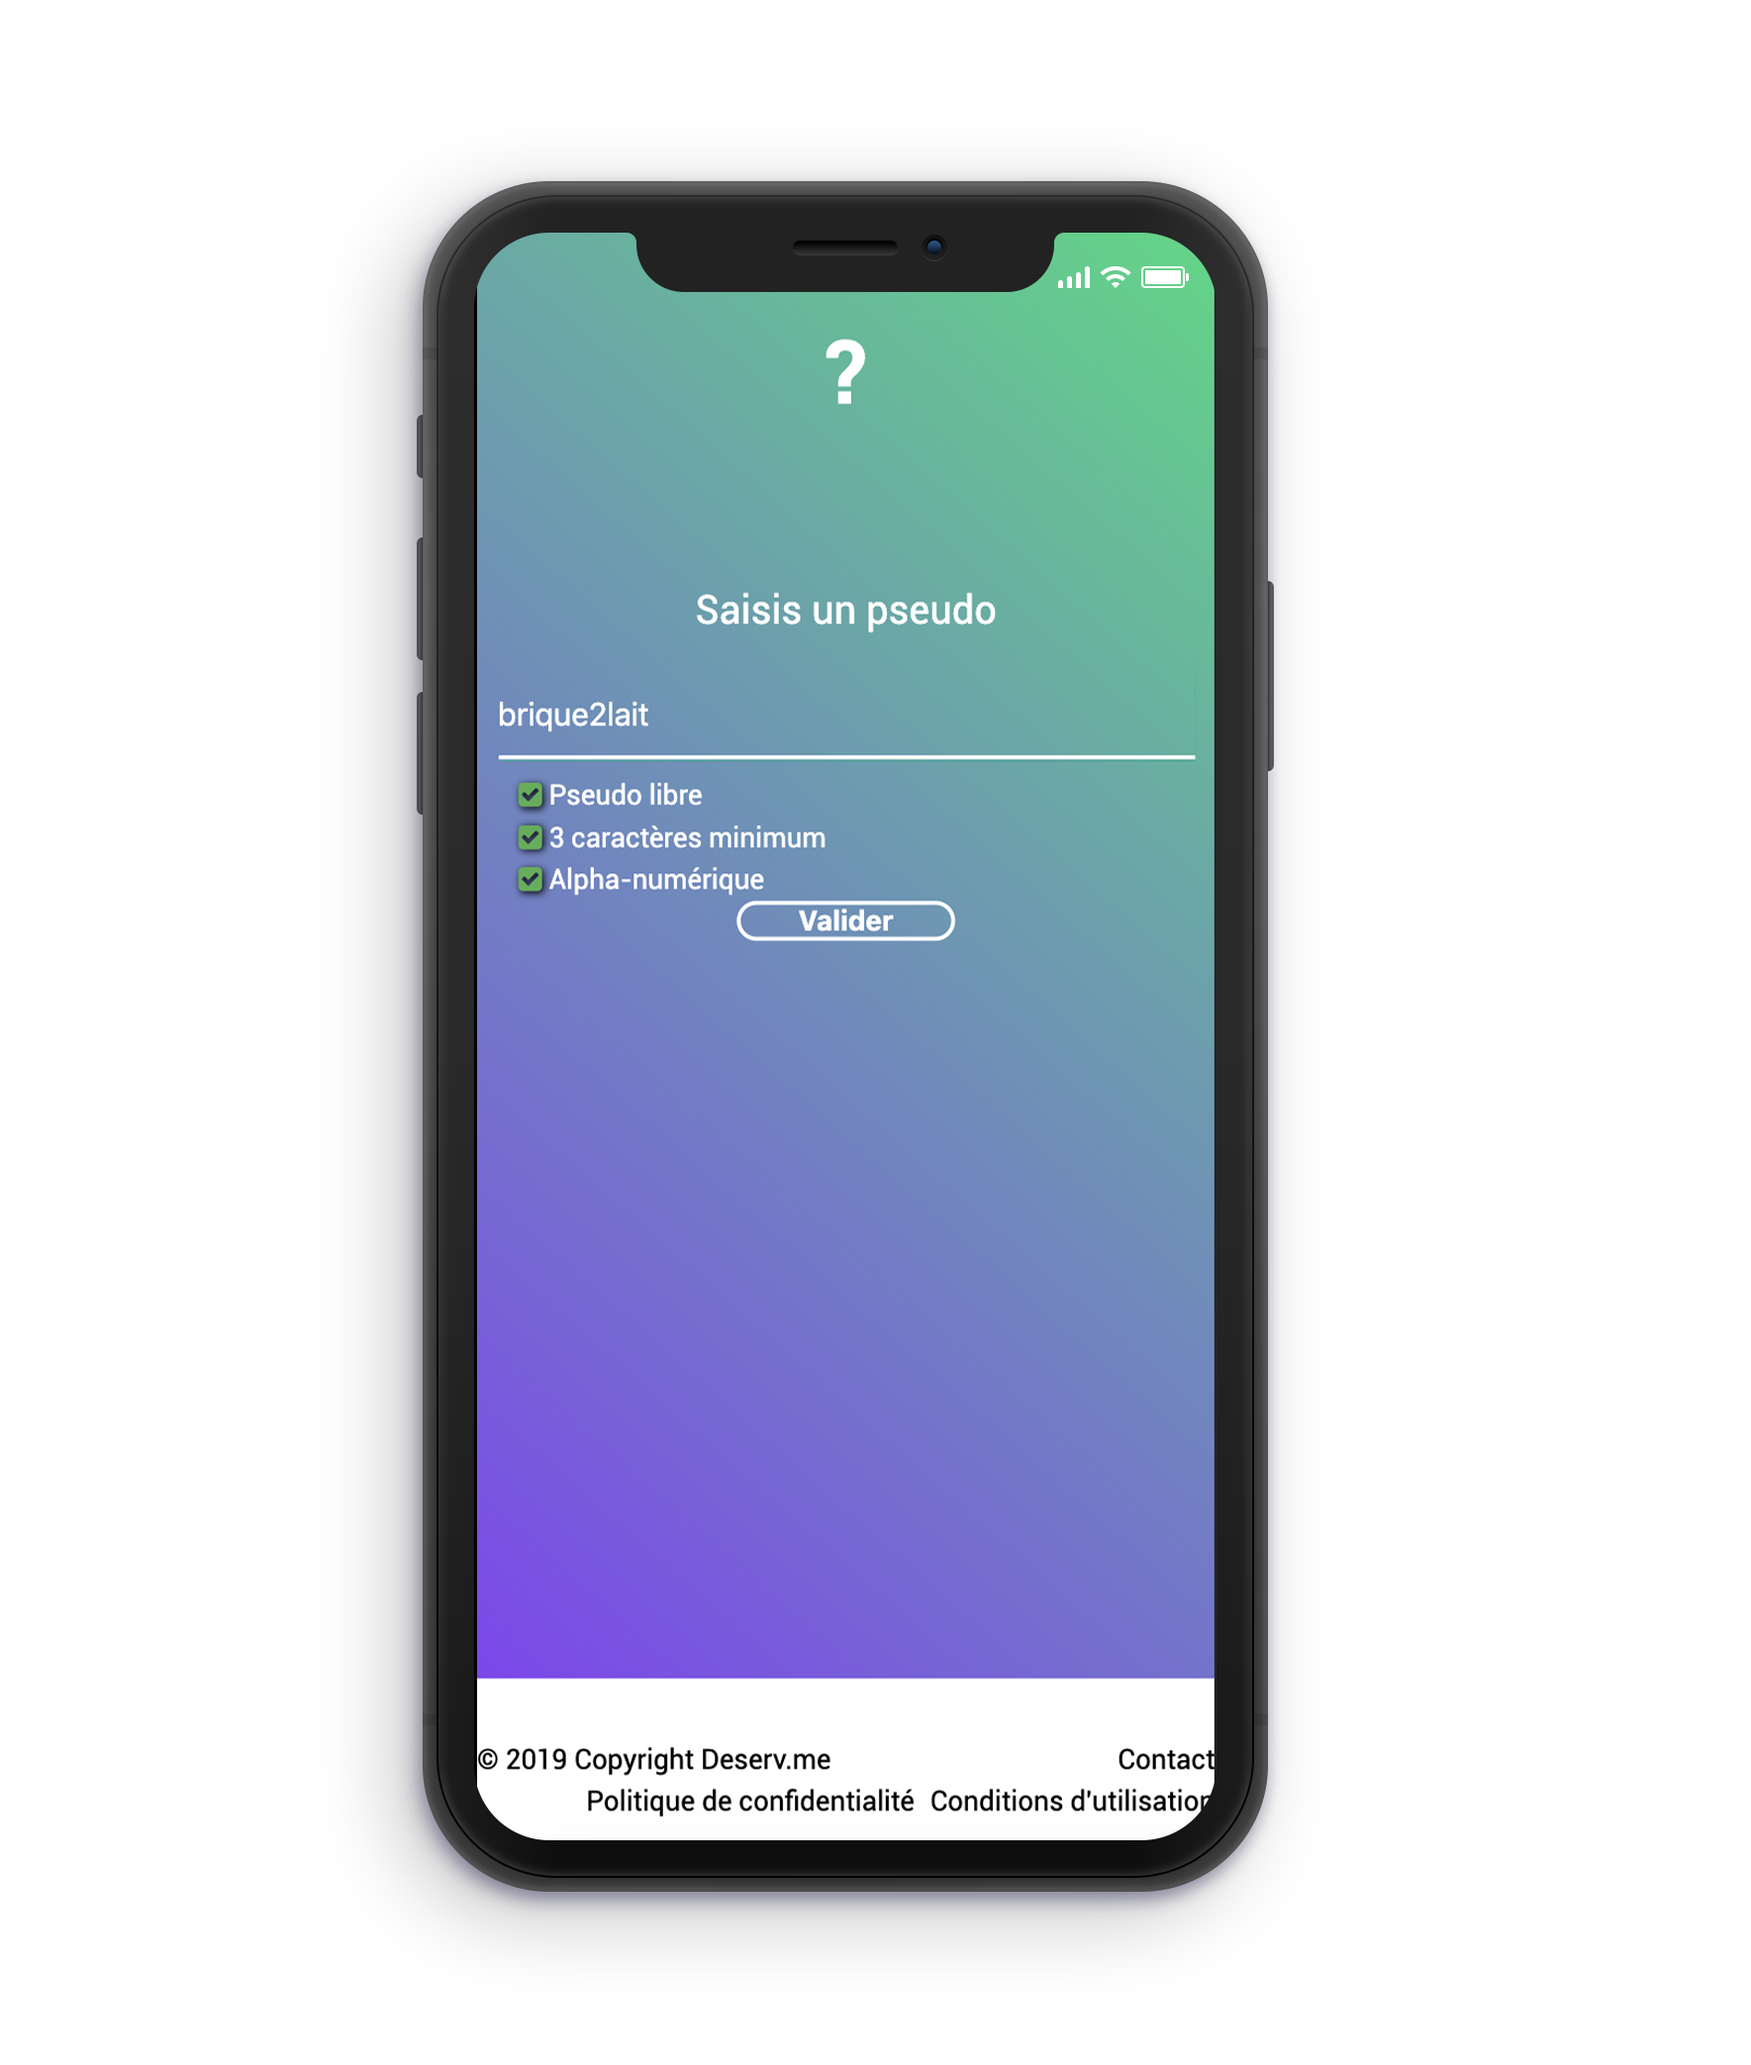
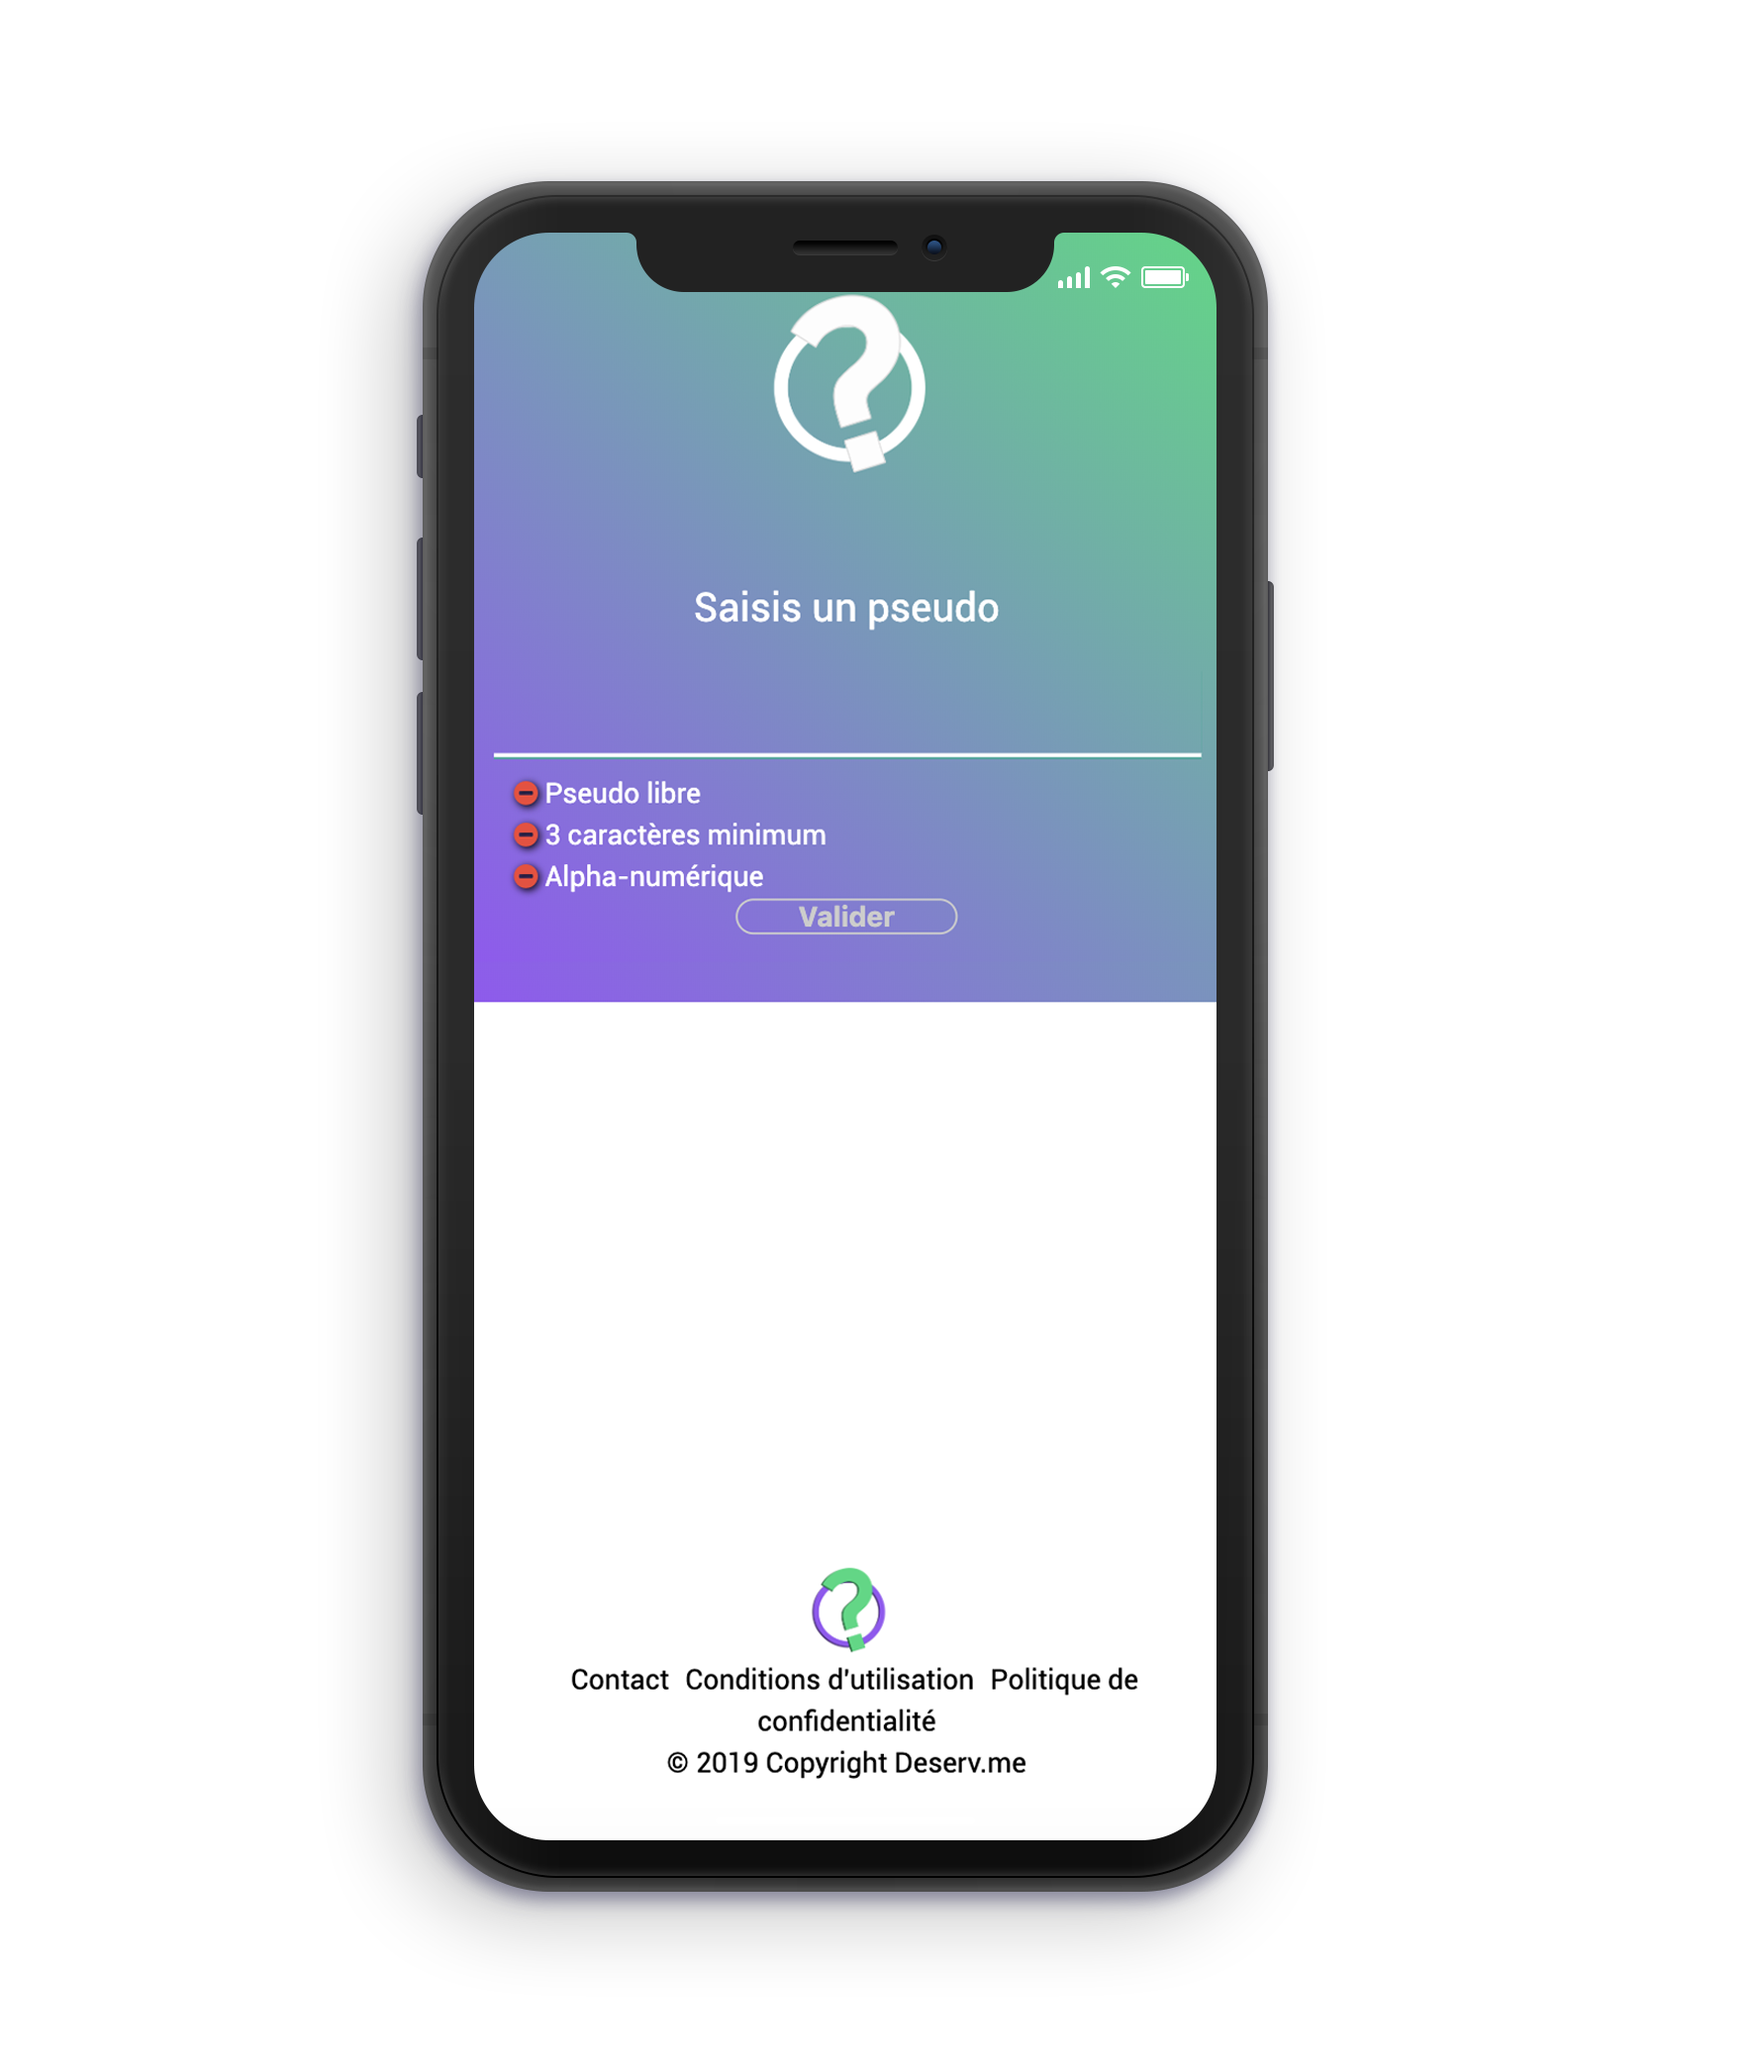
update design

Changed region(s): [[0.2487, 0.2493, 0.7151, 0.8725], [0.4353, 0.1246, 0.5285, 0.2493], [0.4042, 0.2804, 0.5596, 0.3116]]

diff --git a/src/app/answer-quizz/answer-quizz.component.ts b/src/app/answer-quizz/answer-quizz.component.ts
@@ -35,6 +35,7 @@ export class AnswerQuizzComponent implements OnInit {
     allAnswer: Answer[];
     exist = true;
     report = false;
+    isConnected = false;
 
     constructor(private api: ApiService,
                 private route: ActivatedRoute,
@@ -61,38 +62,52 @@ export class AnswerQuizzComponent implements OnInit {
         this.nbrQ = 0;
         this.id = this.route.snapshot.paramMap.get('id');
         this.currentUser = JSON.parse(localStorage.getItem('user'));
-
-        this.api.getAnswerByUserId(this.id).subscribe((a: Answer) => {
-            this.calculResult(a, true);
-            this.alreadyAnswer = true;
-        }, error => {
-            this.alreadyAnswer = false;
+        if (!this.currentUser) {
+            this.isConnected = false;
             this.api.getQuizz(this.id).subscribe((q: Quizz) => {
                 this.metafrenzyService.setLinkTag({
                     property: 'og:title',
                     value: 'Deserv.me - ' + q.title
                 });
-                if (q.user_id == this.currentUser._id) {
-                    this.exist = true;
-                    this.quizz = q;
-                    this.myQuizz = true;
-                    this.api.getAnswerOfQuizz(this.id).subscribe((answers: Answer[]) => {
-                        this.allAnswer = answers;
-                        console.log(answers);
-                    });
-                } else {
-                    this.quizz = q;
-                    this.answer = new Answer;
-                    this.answer.user_id = this.currentUser._id;
-                    this.answer.username = this.currentUser.username;
-                    this.answer.avatar = this.currentUser.avatar;
-                    this.answer.avatar_type = this.currentUser.avatar_type;
-                    this.answer.questions = [new Question()];
-                }
+                this.exist = true;
+                this.quizz = q;
             }, (err) => {
                 this.exist = false;
             });
-        });
+        } else {
+            this.isConnected = true;
+            this.api.getAnswerByUserId(this.id).subscribe((a: Answer) => {
+                this.calculResult(a, true);
+                this.alreadyAnswer = true;
+            }, error => {
+                this.alreadyAnswer = false;
+                this.api.getQuizz(this.id).subscribe((q: Quizz) => {
+                    this.metafrenzyService.setLinkTag({
+                        property: 'og:title',
+                        value: 'Deserv.me - ' + q.title
+                    });
+                    if (q.user_id == this.currentUser._id) {
+                        this.exist = true;
+                        this.quizz = q;
+                        this.myQuizz = true;
+                        this.api.getAnswerOfQuizz(this.id).subscribe((answers: Answer[]) => {
+                            this.allAnswer = answers;
+                            console.log(answers);
+                        });
+                    } else {
+                        this.quizz = q;
+                        this.answer = new Answer;
+                        this.answer.user_id = this.currentUser._id;
+                        this.answer.username = this.currentUser.username;
+                        this.answer.avatar = this.currentUser.avatar;
+                        this.answer.avatar_type = this.currentUser.avatar_type;
+                        this.answer.questions = [new Question()];
+                    }
+                }, (err) => {
+                    this.exist = false;
+                });
+            });
+        }
     }
     previewQ() {
         this.nbrQ--;

diff --git a/src/app/answer-quizz/answer-quizz.component.html b/src/app/answer-quizz/answer-quizz.component.html
@@ -1,5 +1,5 @@
 
-<div class="container " *ngIf="quizz && !alreadyAnswer && !myQuizz && exist">
+<div class="container " *ngIf="quizz && !alreadyAnswer && !myQuizz && exist && isConnected">
 
   <div class="row">
     <div class="col s12 l4 user z-depth-3">
@@ -121,4 +121,62 @@
   <i class="material-icons">
     error_outline
   </i>
+</div>
+
+<div class="container " *ngIf="quizz && exist && !isConnected">
+
+  <div class="row">
+    <div class="col s12 l4 user z-depth-3">
+      <div class="col s2">
+        <img class="circle" src="{{getAvatar(quizz.user_id)}}" alt="img">
+      </div>
+
+      <div class="col s10">
+        <p>- Ce Quizz a été crée par {{quizz.username}} <br>
+          - Ce quizz contient {{quizz.questions.length}} questions <br>
+          - <span *ngIf="quizz.answer_count < 1">Tu es le premier a participer à ce quizz</span>
+          <span *ngIf="quizz.answer_count > 0">{{quizz.answer_count}} personnes ont participés à ce quizz</span>
+        </p>
+
+      </div>
+    </div>
+
+    <div class="col s12 l8 offset-l1 answer-quizz z-depth-3">
+      <div class="title-answer">{{quizz.title}}</div>
+      <ng-container  *ngFor="let q of quizz.questions, let i = index;">
+        <div class="row question z-depth-3" *ngIf="nbrQ == i" >
+          <div class="title-question col s12 ">{{q.name}} </div>
+
+          <div class="row answers" >
+            <h2>Choisis une réponse :</h2>
+            <!-- <div class="col s12 answer {{choice.rep ? 'true-answer': 'false-answer'}}" *ngFor="let choice of q.choices; let j = index">
+               <div class="col s8 answer-name">
+                 {{choice.name}}
+               </div>
+               <div class="col s2 large-answer">
+                 <p class="answer-right">
+                   <label>
+                     <input (click)="uncheckAll(i, j)" type="checkbox" class="filled-in" />
+                     <span></span>
+                   </label>
+                 </p>
+               </div>
+             </div>-->
+            <p *ngFor="let choice of q.choices; let j = index">
+              <label>
+                <input name="group{{i}}" type="radio" (click)="setAnswer(choice, q)" disabled />
+                <span>{{choice.name}}</span>
+              </label>
+            </p>
+          </div>
+        </div>
+      </ng-container>
+      <div class="row answer-end">
+        <div class="col s12">
+          <button class="white-button left btn" [routerLink]="['/']">Pour répondre tu dois te connecter</button>
+        </div>
+      </div>
+
+    </div>
+  </div>
 </div>

diff --git a/src/app/home/home.component.html b/src/app/home/home.component.html
@@ -69,11 +69,11 @@
           Connexion via Twitter
         </button>
       </a>
-      <a href="{{environment.baseUrl}}auth/instagram">
-        <button class="loginBtn loginBtn--instagram">
+    <!--  <a href="{{environment.baseUrl}}auth/instagram">
+        <button class="loginBtn loginBtn&#45;&#45;instagram">
           Connexion via Instagram
         </button>
-      </a>
+      </a>-->
     </p>
     <p class="center-align hide-on-large-only">
       <a href="{{environment.baseUrl}}auth/facebook">
@@ -87,11 +87,11 @@
         </button>
       </a>
 
-      <a href="{{environment.baseUrl}}auth/instagram">
-        <button class="loginBtn loginBtn--instagram">
+    <!--  <a href="{{environment.baseUrl}}auth/instagram">
+        <button class="loginBtn loginBtn&#45;&#45;instagram">
           via Instagram
         </button>
-      </a>
+      </a>-->
     </p>
     <p class="center-align">
       En t'inscrivant tu acceptes les <a [routerLink]="'/terms'">conditions d'utilisation</a> et la <a [routerLink]="'/privacy'">politique de confidentialité</a>

diff --git a/src/app/footer/footer.component.html b/src/app/footer/footer.component.html
@@ -8,12 +8,21 @@
         <img routerLink="/"  src="../../assets/images/color-logo.png" alt="logo deserv.me deservme quizz">
 
       </div>
-      <div class="col l6 s12 right">
+      <div class="col l6 s12 right hide-on-med-and-down">
         <a class="right" routerLink="/contact">Contact</a>
         <a class="right" routerLink="/terms">Conditions d'utilisation</a>
         <a class="right" routerLink="/privacy">Politique de confidentialité</a>
       </div>
-      <div class="col l6 s12 left">
+      <div class="col l6 s12 hide-on-large-only center" >
+        <a routerLink="/contact" class="left-align">Contact</a>
+        <a routerLink="/terms" class="left-align">Conditions d'utilisation</a>
+        <a routerLink="/privacy" class="left-align">Politique de confidentialité</a>
+      </div>
+      <div class="col l6 s12 left hide-on-med-and-down">
+        © 2019 Copyright Deserv.me
+      </div>
+
+      <div class="col l6 s12 center-align hide-on-large-only">
         © 2019 Copyright Deserv.me
       </div>
 

diff --git a/src/app/profil/profil.component.ts b/src/app/profil/profil.component.ts
@@ -25,7 +25,6 @@ export class ProfilComponent implements OnInit, OnChanges {
     this.api.getCurrentUser().subscribe((v: User) => {
       if (!localStorage.getItem('user')) {
         localStorage.setItem('user', JSON.stringify(v));
-        console.log('ajouter');
       }
       if (!v.username) {
         this.router.navigate(['/register']);
@@ -34,7 +33,8 @@ export class ProfilComponent implements OnInit, OnChanges {
       }
     }, error => {
       if (error) {
-        this.router.navigate(['/']);
+          if (this.currentRoute != 'quizz/:id')
+            this.router.navigate(['/']);
       }
     });
   }
@@ -53,7 +53,8 @@ export class ProfilComponent implements OnInit, OnChanges {
             }
         }, error => {
             if (error) {
-                this.router.navigate(['/']);
+                if (this.currentRoute != 'quizz/:id')
+                    this.router.navigate(['/']);
             }
         });
     }

diff --git a/src/app/create-quizz/create-quizz.component.html b/src/app/create-quizz/create-quizz.component.html
@@ -5,10 +5,10 @@
     </div>
   </div>
   <div class="questions row z-depth-3" *ngFor="let question of quizz.questions; let i = index;">
-    <button class="white-button right delete-question" (click)="deleteQuestion(i)">X</button>
+    <button class="purple-border right delete-question" (click)="deleteQuestion(i)">X</button>
     <div class="row question">
       <div class="col s12 ">
-        <input type="text" id="question" name="question" placeholder="Question n°{{i+1}}" maxlength="50" [(ngModel)]="question.name">
+        <input type="text" id="question" name="question" placeholder="Question n°{{i+1}}" maxlength="90" [(ngModel)]="question.name">
       </div>
     </div>
     <div class="row answers" >

diff --git a/src/app/app.component.ts b/src/app/app.component.ts
@@ -17,7 +17,7 @@ export class AppComponent implements OnInit {
     private readonly metafrenzyService: MetafrenzyService) {
 
       this.metafrenzyService.setOpenGraph({
-          title: 'Deserv.me - Réponde aux quizz',
+          title: 'Deserv.me - Viens répondre à mon quizz',
           description: 'Crée, participe et partage des quizz',
           type: 'website',
           url: 'https://deserv.me',

diff --git a/src/app/my-quizz/my-quizz.component.ts b/src/app/my-quizz/my-quizz.component.ts
@@ -25,7 +25,7 @@ export class MyQuizzComponent implements OnInit {
 
   ngOnInit() {
     this.currentUser = JSON.parse(localStorage.getItem('user'));
-    this.id = this.route.snapshot.paramMap.get('id');
+      this.id = this.route.snapshot.paramMap.get('id');
     this.api.getMyQuizz(this.id).subscribe((q: Quizz[]) => {
       this.quizzs = q;
     });

diff --git a/src/app/discover/discover.component.html b/src/app/discover/discover.component.html
@@ -1,5 +1,5 @@
 <div class="container">
-  <h2 class="title-page">Découverte</h2>
+  <h2 class="title-page">Découverte de la semaine</h2>
   <ul class="collection">
     <app-single-quizz-list *ngFor="let quizz of quizzs" [quizz]="quizz"></app-single-quizz-list>
   </ul>

diff --git a/src/app/header/header.component.scss b/src/app/header/header.component.scss
@@ -5,6 +5,6 @@
   .logo img {
     margin: 0;
     width: 100px;
-    margin-top: 15px;
+    margin-top: 30px;
   }
 }
